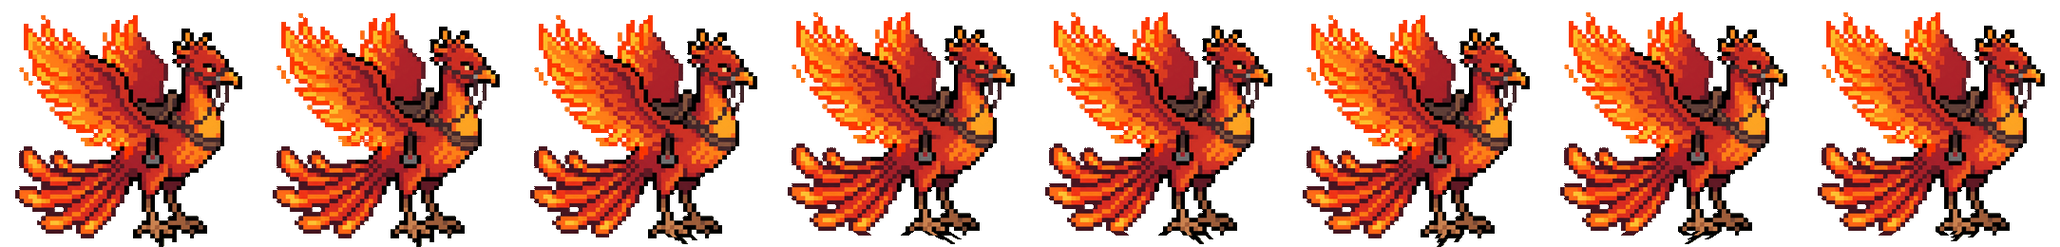
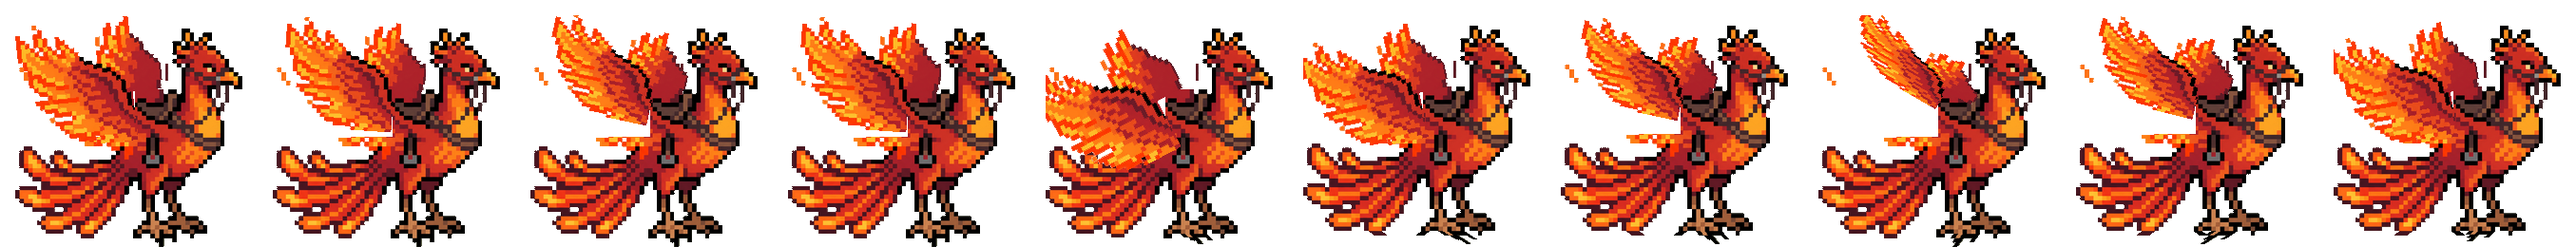
TEST: wing flap for Thanh Long and Phuong Hoang (not deployed)
Claude-Session: https://claude.ai/code/session_01AqWtbjMjwaw5KPYKGcCy7Z

diff --git a/tools/mount_art/build.py b/tools/mount_art/build.py
@@ -9,6 +9,29 @@ SEAT={'kim_quy':(95,16),'hoa_ky_lan':(92,88),'kim_nguu':(100,24),'ngua_nau':(100
 # biên độ đung đưa chân (tỉ lệ chiều cao), độ nhún thân (px x2), tốc độ khung
 GAIT={'kim_quy':(0.07,2,150),'kim_nguu':(0.09,3,120),'hoa_ky_lan':(0.11,4,95),'hac_ma':(0.11,4,100),'bach_ma':(0.11,4,100),'phuong_hoang':(0.09,4,105),'thanh_long':(0.09,4,105)}
 PAD=16
+# cánh (toạ độ ảnh đã chuẩn hoá x2, quay phải): vùng chọn + gốc cánh (trục vỗ)
+WING={'thanh_long':dict(x1=152,y1=98,ex=(86,134,86),piv=(128,97)),
+      'phuong_hoang':dict(x1=158,y1=128,ex=(126,170,78),piv=(150,100))}
+def wing_mask(a,name):
+    w=WING[name];h,wd=a.shape[:2];yy,xx=np.mgrid[0:h,0:wd]
+    m=(a[...,3]>0)&(xx<w['x1'])&(yy<w['y1'])
+    ex0,ex1,ey=w['ex'];m&=~((xx>=ex0)&(xx<=ex1)&(yy>=ey))
+    lab,n=nd.label(m)
+    if n>1:   # giữ mảng lớn nhất (cánh)
+        sz=nd.sum(m,lab,range(1,n+1));m=lab==(np.argmax(sz)+1)
+    return m
+def flap(wing,piv,th,sc):
+    # xoay + ép dọc cánh quanh gốc (ánh xạ ngược, không thủng lỗ)
+    h,w=wing.shape[:2];out=np.zeros_like(wing);px,py=piv
+    yy,xx=np.mgrid[0:h,0:w].astype(float);c,s_=math.cos(th),math.sin(th)
+    dx,dy=xx-px,yy-py
+    sx=c*dx+s_*dy;sy=(-s_*dx+c*dy)/max(sc,0.2)
+    srcx=np.round(sx+px).astype(int);srcy=np.round(sy+py).astype(int)
+    ok=(srcx>=0)&(srcx<w)&(srcy>=0)&(srcy<h)
+    out[ok]=wing[srcy[ok],srcx[ok]]
+    return out
+RUN_FLAP=[(-28,1.08),(-12,.95),(12,.7),(30,.45),(14,.68),(-10,.95)]
+IDLE_FLAP=[(-6,1.02),(4,.9),(12,.78),(4,.9)]
 def legs_split(im):
     a=np.asarray(im);al=a[...,3]>0;h,w=al.shape
     cnt=al.sum(1);mx=cnt.max()
@@ -25,7 +48,10 @@ def legs_split(im):
     comps.sort(key=lambda c:c[0])
     return cut,[m for _,m in comps]
 def walk_frames(im,name,n=6):
-    A,B,ms=GAIT[name];a=np.asarray(im);h,w=a.shape[:2]
+    A,B,ms=GAIT[name];a=np.asarray(im).copy();h,w=a.shape[:2]
+    wing=None
+    if name in WING:
+        wm=wing_mask(a,name);wing=np.where(wm[...,None],a,0).astype(np.uint8);a[wm]=0;im=Image.fromarray(a,'RGBA')
     cut,legs=legs_split(im)
     allleg=np.zeros((h,w),bool)
     for m in legs: allleg|=m
@@ -46,8 +72,18 @@ def walk_frames(im,name,n=6):
             s=math.sin(ph+off);amp=A*h
             lift=max(0.0,math.cos(ph+off))*B*0.8
             put(a,m,lambda y,s=s:round(amp*s*(y-cut)/max(1,h-cut)),lambda y,l=lift:-round(l*(y-cut)/max(1,h-cut)))
+        if wing is not None:   # cánh vỗ theo nhịp chạy, vẽ đè lên thân
+            th,sc=RUN_FLAP[k%len(RUN_FLAP)];fw=flap(wing,WING[name]['piv'],math.radians(th),sc)
+            wl=np.zeros_like(cv);wl[PAD-bob:PAD-bob+h,PAD:PAD+w]=fw;m2=wl[...,3]>0;cv[m2]=wl[m2]
         frames.append(Image.fromarray(cv,'RGBA'))
     return frames,ms
+def idle_wing(im,name):
+    a=np.asarray(im).copy();h,w=a.shape[:2];wm=wing_mask(a,name);wing=np.where(wm[...,None],a,0).astype(np.uint8);a[wm]=0;out=[]
+    for th,sc in IDLE_FLAP:
+        cv=np.zeros((h+PAD,w+2*PAD,4),np.uint8);cv[PAD:,PAD:PAD+w]=a
+        fw=flap(wing,WING[name]['piv'],math.radians(th),sc);m2=fw[...,3]>0;sub=cv[PAD:,PAD:PAD+w];sub[m2]=fw[m2]
+        out.append(Image.fromarray(cv,'RGBA'))
+    return out
 def idle_frames(im,n=2):
     a=np.asarray(im);h,w=a.shape[:2];out=[]
     for k in range(n):
@@ -77,18 +113,19 @@ for name,h in H.items():
         seats=[list(seat0)]*2+[[seat0[0],seat0[1]+(-4 if k%3==1 else 0)+ (idl[0].height-run[0].height)] for k in range(6)]
     else:
         im=norm(Image.open(name+'_cut.png'),h)
-        idl=idle_frames(im);run,ms=walk_frames(im,name)
+        idl=idle_wing(im,name) if name in WING else idle_frames(im);run,ms=walk_frames(im,name)
         W=max(f.width for f in idl+run);HH=max(f.height for f in idl+run)
         cells=[]
         for f in idl+run:
             cv=Image.new('RGBA',(W,HH));cv.alpha_composite(f,(0,HH-f.height));cells.append(cv)
         A,B,_=GAIT[name];sx,sy=SEAT[name]
-        seats=[[sx+PAD,sy+PAD],[sx+PAD,sy+PAD-RES]]+[[sx+PAD,sy+PAD-round(B*abs(math.sin(2*math.pi*k/6)))] for k in range(6)]
-    sheet=Image.new('RGBA',(W*8,HH))
+        seats=([[sx+PAD,sy+PAD]]*len(idl) if name in WING else [[sx+PAD,sy+PAD],[sx+PAD,sy+PAD-RES]])+[[sx+PAD,sy+PAD-round(B*abs(math.sin(2*math.pi*k/6)))] for k in range(6)]
+    NI=len(cells)-6
+    sheet=Image.new('RGBA',(W*len(cells),HH))
     for i,c in enumerate(cells): sheet.alpha_composite(c,(i*W,0))
     sheet.save(OUT+'mounts/'+name+'.png')
     s=1/RES
-    meta['per'][name]={'cell':[W,HH],'foot':[W/2,HH-1],'footFB':[W/2,HH-1],'frames':{'idle':[0,2],'run':[2,6]},'rows':{'side':[0]},'scale':s,'runMs':ms,'idleMs':700}
+    meta['per'][name]={'cell':[W,HH],'foot':[W/2,HH-1],'footFB':[W/2,HH-1],'frames':{'idle':[0,NI],'run':[NI,6]},'rows':{'side':[0]},'scale':s,'runMs':ms,'idleMs':(240 if NI>2 else 700)}
     meta['seats'][name]={'side':[[round(x,1),round(y,1)] for x,y in seats]}
     meta['seat'][name]=meta['seats'][name]['side']
     preview.append(sheet)
